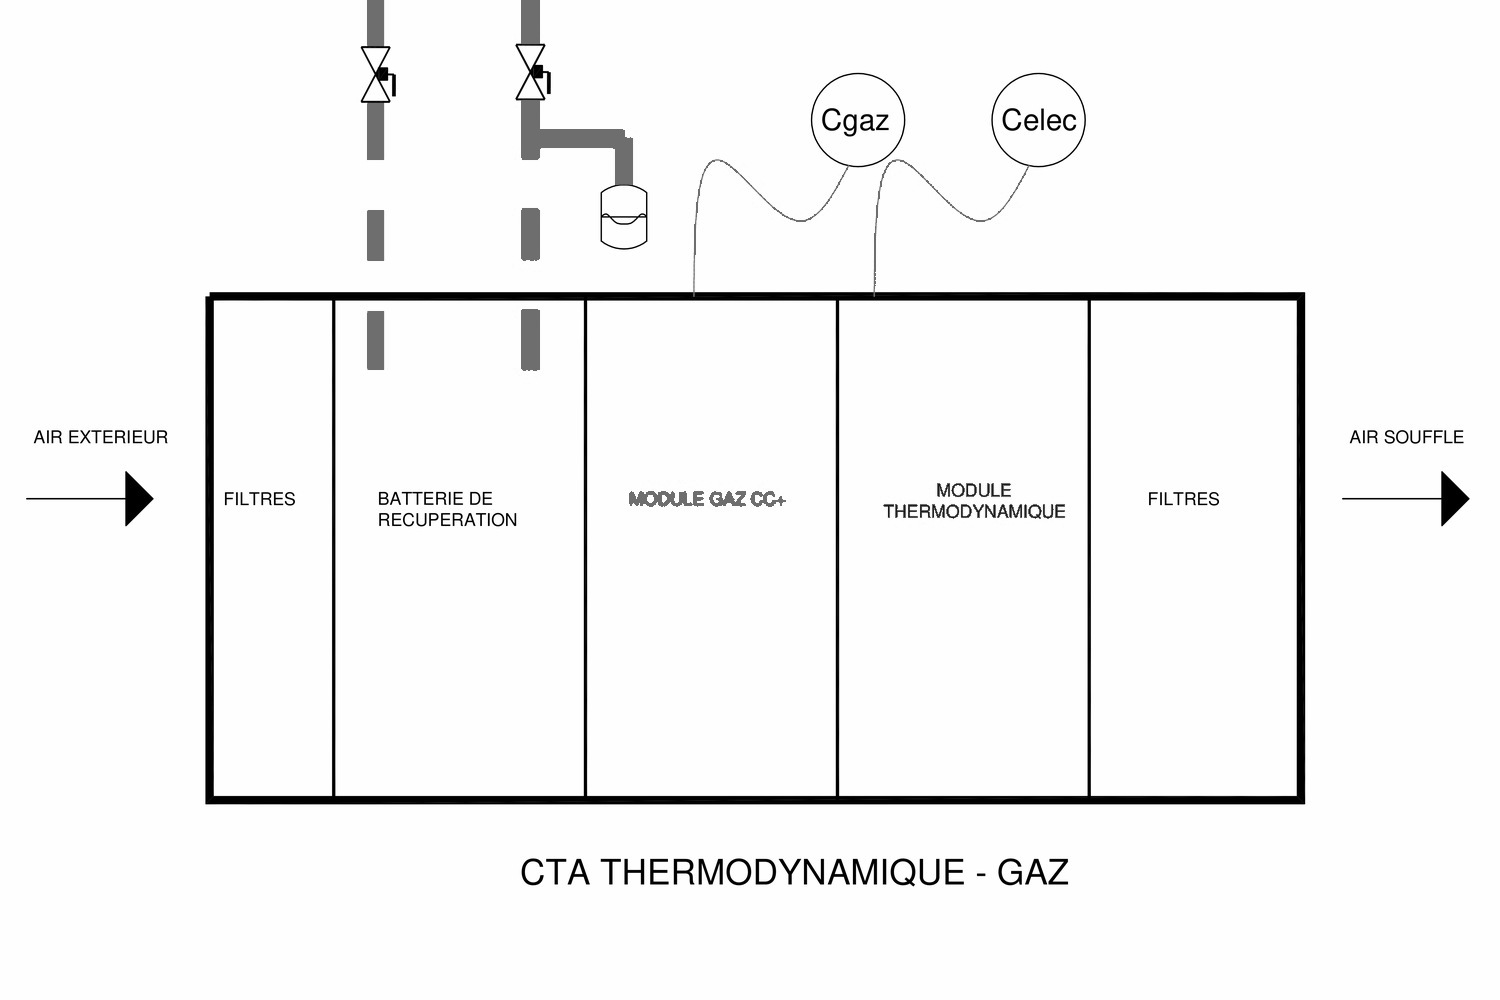
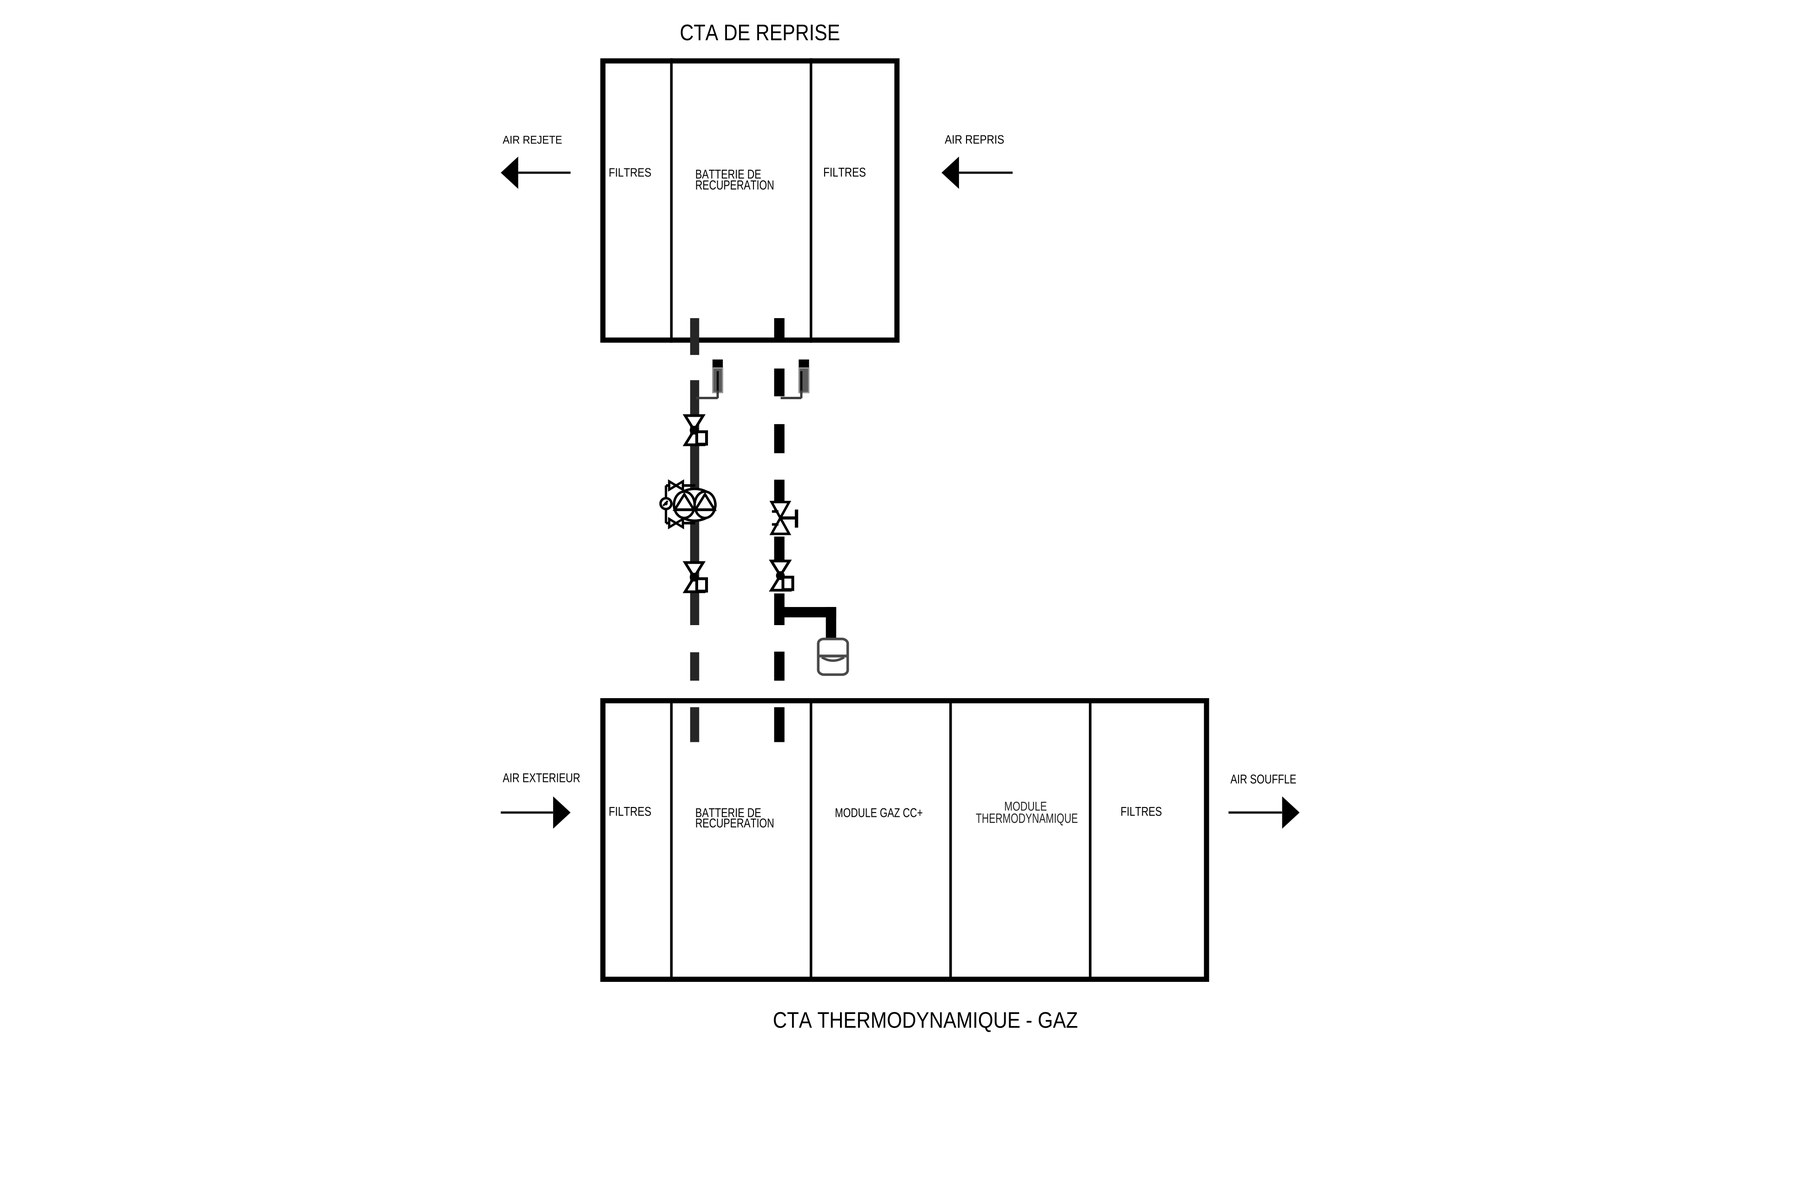
content(references): installe la planche CTA de la fiche Dufour
Le visuel de l'affaire Dufour Yachts était un recadrage partiel montrant
la seule centrale de soufflage. La planche livrée par FT2E porte les deux
centrales et la boucle d'eau glycolée qui les relie — c'est-à-dire la
récupération elle-même, sujet de l'étude de faisabilité.

Trois traitements, chacun appuyé sur une mesure.

Encrage. Le duotone du site est un filtre CSS (grayscale(100%) puis
lighten sur profond et darken sur voile) : la couleur du fichier ne porte
rien à l'affichage. Le vert vif du départ glycol (0,255,0) a une
luminance de 185 et ressortait à 1,7:1 sur le voile — la conduite
s'effaçait de l'écran. Chaque pixel prend donc la valeur de son canal le
plus faible : un neutre garde sa clarté, toute teinte saturée passe à
l'encre. Le départ, le retour, l'étiquette orange du module gaz et la
bleue du module thermodynamique sont désormais tous lisibles.

Cadrage. 3:2 exact, le gabarit imposant aspect-[3/2] et object-cover.

Réserve de cartouche. La légende (amendement A8) est posée par-dessus
l'image : 27 px de haut à 14 px du bas, depuis la gouttière d'équerre,
soit les 11 % inférieurs sur 52 % de la largeur d'un bloc média qui rend
à 581 x 387 px. Au premier essai la plaque recouvrait le bas de la
centrale de soufflage et coupait son titre. Le dessin est calé sur les
84 % supérieurs du cadre. Conséquence mesurée : une fois la réserve
tenue, recadrer les marges blanches ne gagne plus rien — 44,4 % de la
[…]

diff --git a/src/content/projets/atelier-dufour-yachts-perigny.md b/src/content/projets/atelier-dufour-yachts-perigny.md
@@ -24,7 +24,7 @@ synthese: >-
   5 206 € HT par an ; le temps de retour brut est de 26 ans.
 mission_ft2e: ["Audit & diagnostic", "Thermique", "CVC"]
 image_principale: "/images/projets/atelier-dufour-yachts-perigny/01.jpg"
-image_principale_alt: "Schéma de principe de la centrale de traitement d’air de soufflage : cinq caissons alignés, filtres, batterie de récupération, module gaz, module thermodynamique et filtres, l’air extérieur entrant par la gauche et l’air soufflé sortant par la droite, deux piquages d’eau glycolée descendant vers la batterie de récupération, et deux compteurs d’énergie repérés gaz et électrique"
+image_principale_alt: "Schéma de principe de la récupération de chaleur : en haut, la centrale de reprise — filtres, batterie de récupération, filtres — où l’air repris entre par la droite et l’air rejeté sort par la gauche ; en bas, la centrale de soufflage — filtres, batterie de récupération, module gaz, module thermodynamique, filtres — où l’air extérieur entre par la gauche et l’air soufflé sort par la droite ; entre les deux, une boucle d’eau glycolée à deux conduites, munie d’un circulateur, de vannes d’isolement et d’un vase d’expansion, qui relie les deux batteries sans mettre les flux d’air en contact"
 en_avant: false
 ---
 
